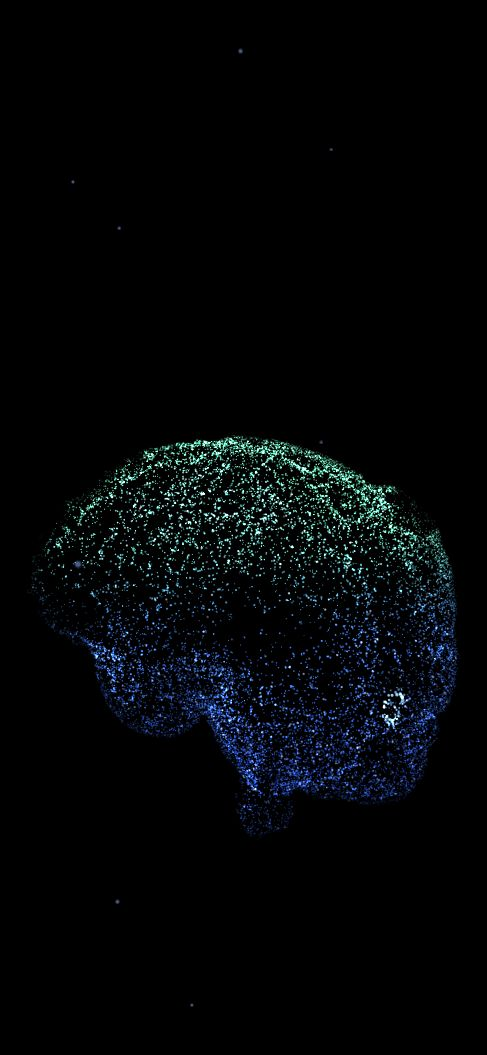
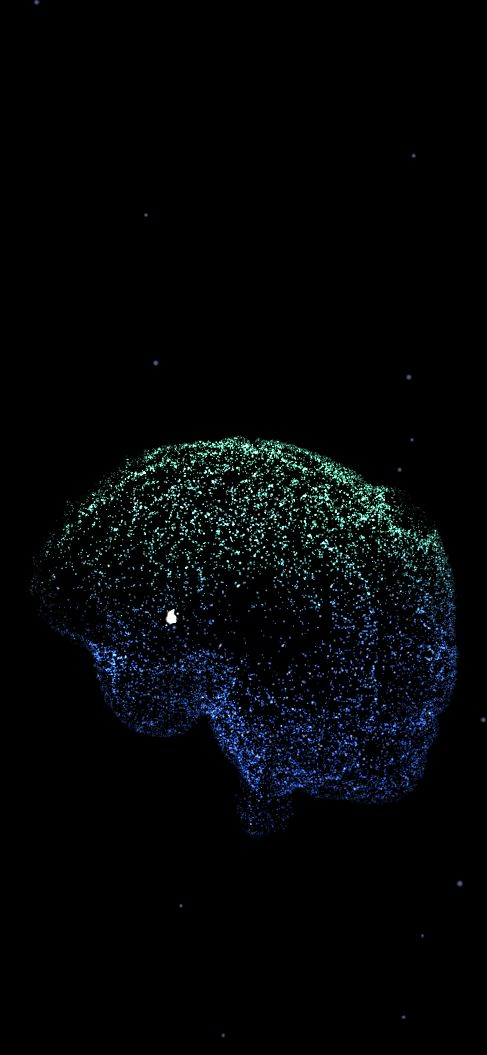
Móvil: el cierre del cerebro va al borde derecho; el scroll táctil ya no se frena por código y desde el cerebro un gesto corto hacia abajo suelta el hero (antes el enganche lo devolvía)

Changed region(s): [[0.0616, 0.3943, 0.9548, 0.7886], [0.9856, 0.6673, 1.0, 0.6976]]

diff --git a/src/scripts/main.js b/src/scripts/main.js
@@ -50,14 +50,15 @@ if ($('[data-hero][data-pin]') || isApp) lenis.stop();
 // la inercia del trackpad sigue mandando scroll un buen rato después de soltar: sin esto, un gesto rápido cruza toda la página
 // Paradas: las etapas del hero y las secciones marcadas con data-stop (sólo en páginas con pin)
 let stops = [];
-let touchStops = [];        // en táctil sólo se frena dentro del hero (sus tres etapas); el resto de la página se desliza libre
 const gesture = { t: 0, dir: 0, limit: null, held: false, heldAt: 0, low: 0 };
 function measureStops() {
-  const max = ScrollTrigger.maxScroll(window), out = [], heroStops = [];
+  const max = ScrollTrigger.maxScroll(window), out = [];
   const pins = ScrollTrigger.getAll().filter((st) => st.pin);
   pins.forEach((st) => {
-    const span = st.end - st.start, tl = st.animation, labels = tl && tl.labels ? Object.values(tl.labels) : [];
-    if (labels.length) return labels.forEach((time) => { const y = st.start + (span * time) / tl.duration(); out.push(y); heroStops.push(Math.round(y)); });
+    const span = st.end - st.start, tl = st.animation;
+    // etapas del hero (la etiqueta «fin» sólo sirve para que el enganche pueda soltar el hero hacia abajo: no es una parada)
+    const labels = tl && tl.labels ? Object.entries(tl.labels).filter(([name]) => name !== 'fin').map(([, t]) => t) : [];
+    if (labels.length) return labels.forEach((time) => out.push(st.start + (span * time) / tl.duration()));
     const n = Math.max(1, Math.round(span / window.innerHeight));       // sin etiquetas: tramos de más o menos una pantalla
     for (let i = 0; i <= n; i++) out.push(st.start + (span * i) / n);
   });
@@ -66,45 +67,9 @@ function measureStops() {
     out.push(el.dataset.stop === 'center' ? top + r.height / 2 - window.innerHeight / 2 : top);
   });
   stops = [...new Set(out.map((v) => Math.round(Math.min(max, Math.max(0, v)))))].sort((a, b) => a - b);
-  touchStops = [...new Set(heroStops)].sort((a, b) => a - b);
 }
-// Táctil: el scroll es el nativo del teléfono y no se puede recortar gesto a gesto como la rueda. Mientras el dedo arrastra, manda el dedo;
-// al soltar empieza la inercia, y si esa inercia alcanza la siguiente etapa del hero (contando desde donde se soltó) se corta ahí.
-// Sólo dentro del hero: frenar también en las secciones de después hacía que la página pareciera atascarse al seguir bajando.
-if (window.matchMedia('(pointer: coarse)').matches && !isApp) {
-  const root = document.documentElement;
-  let coasting = false, from = 0, lastY = 0, idle = 0, hold = null;
-  const halt = (y) => {
-    coasting = false;
-    hold = { y, until: performance.now() + 260 };
-    root.style.overflow = 'hidden';                       // sin scroll un instante: es lo que detiene la inercia del navegador
-    window.scrollTo(0, y);
-    setTimeout(() => { root.style.overflow = ''; }, 60);
-  };
-  window.addEventListener('touchstart', () => { coasting = false; hold = null; }, { passive: true });
-  const release = (e) => {
-    if (e.touches.length || !touchStops.length) return;
-    if (window.scrollY > touchStops[touchStops.length - 1] + 4) return;      // ya se salió del hero: scroll libre
-    coasting = true; from = lastY = window.scrollY;
-    clearTimeout(idle); idle = setTimeout(() => { coasting = false; }, 160);
-  };
-  window.addEventListener('touchend', release, { passive: true });
-  window.addEventListener('touchcancel', release, { passive: true });
-  window.addEventListener('scroll', () => {
-    const y = window.scrollY;
-    if (hold) {                                             // recién detenido: si la inercia aún empuja, se devuelve a la parada
-      if (performance.now() > hold.until) hold = null;
-      else if (Math.abs(y - hold.y) > 1) window.scrollTo(0, hold.y);
-      return;
-    }
-    if (!coasting) return;
-    clearTimeout(idle); idle = setTimeout(() => { coasting = false; }, 160);
-    const dir = Math.sign(y - lastY); lastY = y;
-    if (!dir) return;
-    const limit = dir > 0 ? touchStops.find((s) => s > from + 2) : touchStops.findLast((s) => s < from - 2);
-    if (limit != null && (y - limit) * dir >= 0) halt(limit);
-  }, { passive: true });
-}
+// Táctil: no se frena el scroll por código. Las etapas del hero ya se enganchan solas (snap de su ScrollTrigger) y cortar la inercia del
+// teléfono a mano hacía que, en algunos móviles, la página pareciera atascada al intentar seguir bajando.
 ScrollTrigger.addEventListener('refresh', measureStops);
 
 function limitWheel(data) {

diff --git a/src/scripts/heroStages.js b/src/scripts/heroStages.js
@@ -60,5 +60,8 @@ export function startHeroStages({ hero, pinned, MOB, state, position, homeX }) {
     .to(A, { opacity: 0.45, rotation: -24, scale: 1.2, xPercent: 8, yPercent: 14, duration: 1.7, ease: E }, 3.7)
     .to(B, { opacity: 0.25, yPercent: -30, scale: 0.95, duration: 1.7, ease: E }, 3.7)
     .to({}, { duration: 0.25 }, 5.8)                                                       // pausa final mínima: tras el cerebro el scroll sigue enseguida
-    .addLabel('esfera', 0).addLabel('galaxia', 2.75).addLabel('cerebro', 5.95);
+    .addLabel('esfera', 0).addLabel('galaxia', 2.75).addLabel('cerebro', 5.95)
+    // final del hero: sin esta etiqueta, un gesto corto hacia abajo desde el cerebro quedaba dentro del hero y el enganche lo
+    // devolvía al cerebro, como si la página no quisiera bajar
+    .addLabel('fin', 6.05);
 }
